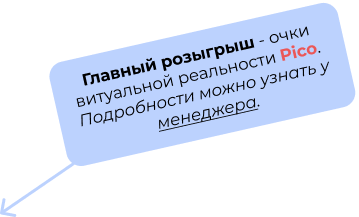
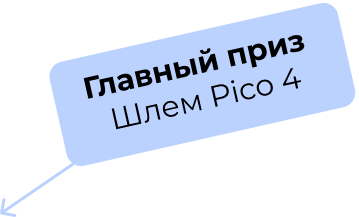
some fixes

Changed region(s): [[0.2145, 0.1106, 0.9192, 0.6083]]

diff --git a/index.html b/index.html
@@ -83,7 +83,7 @@
         </div>
       </div>
     </footer>
-    <section class="page__popup popup">
+    <section class="page__popup prize-popup popup">
       <div class="popup__bg"></div>
       <div class="popup__body">
         <div class="popup__block popup__prize">
@@ -97,10 +97,9 @@
               class="new-line"><br /></span><span class="blue">4% пользователей</span>!</div>
           <div class="popup__subtitle">Подарок будет рассекречен и передан вам в конце пробного занятия.<br />Если вы
             пропускаете или переносите пробный урок, то приз сгорает!</div>
-          <!-- <div class="popup__buttons">
-            <div class="button prize-btn">Записаться</div>
-            <div class="button refuse-btn">Отказаться</div>
-          </div> -->
+          <div class="popup__buttons">
+            <div class="button prize-btn">Розыгрыш Pico 4</div>
+          </div>
         </div>
         <form class="popup__block popup__form">
           <div class="popup__title">Заполните информацию о себе</div>
@@ -114,8 +113,20 @@
 
       </div>
     </section>
+    <section class="page__popup pico-popup popup">
+      <div class="popup__bg"></div>
+      <div class="popup__body">
+        <div class="popup__block popup__prize active">
+          <div class="popup__image">
+            <img class="image" src="./img/vr.png" alt="">
+          </div>
+          <div class="popup__title">Розыгрыш <span class="blue">Pico 4</span></div>
+          <div class="popup__subtitle">Каждый, кто посетит бесплатное пробное занятие в октябре 2024 года, автоматически участвует в розыгрыше СУПЕР-ПРИЗА  Шлем Pico 4. <br/>Ничего делать для этого не надо, главное дойти до пробного занятия на которое вы уже записаны, без переносов. </div>
+        </div>
+      </div>
+    </section>
   </div>
-  <div class="page__preloader preloader">
+  <div class="page__preloader preloader active">
     <div class="loadingio-spinner-spinner-2by998twmg8">
       <div class="ldio-yzaezf3dcmj">
         <div></div>

diff --git a/main.js b/main.js
@@ -10,11 +10,12 @@
   const wheelBodyElem = document.querySelector(".wheel__body");
 
   // Попап
-  const popupWrapperElem = document.querySelector(".page__popup");
-  const popupImageElem = document.querySelector(".popup__image img");
-  const popupNameElem = document.querySelector(".popup__name");
-  const popupPrizeElem = document.querySelector(".popup__prize");
-  const popupFormElem = document.querySelector(".popup__form");
+  const popupWrapperElem = document.querySelector(".prize-popup.page__popup");
+  const popupPrizeElem = document.querySelector(".prize-popup .popup__prize");
+  const popupFormElem = document.querySelector(".prize-popup .popup__form");
+
+  const picoPopupWrapperElem = document.querySelector(".pico-popup.page__popup");
+  const picoPopupBgElem = document.querySelector(".pico-popup .popup__bg");
 
   const formInputNameElem = document.querySelector(".input-name");
   const formInputEmailElem = document.querySelector(".input-email");
@@ -348,6 +349,15 @@
 
     popupWrapperElem.classList.remove("active");
   });
+
+  prizeButtonElem.addEventListener("click", () => {
+    picoPopupWrapperElem.classList.add("active")
+  });
+
+  picoPopupBgElem.addEventListener("click", () => {
+    picoPopupWrapperElem.classList.remove("active")
+  });
+
 
   // ========== ПЕРВИЧНАЯ НАСТРОЙКА DOM ==========
   if (droppedPrizeIndex != -1 && !isInfiniteSpins) {

diff --git a/style.css b/style.css
@@ -695,6 +695,7 @@ body.popup-active {
   display: flex;
   gap: 15px;
   align-items: center;
+  justify-content: center;
 }
 
 .refuse-btn {
